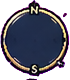
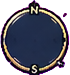
Bản đồ thế giới khung tròn, xoay quanh vị trí mình, có phóng to/thu nhỏ (#9)
- Bỏ khung chữ nhật (bản đồ vuông bị lộ chỗ ghép); dùng khung tròn la bàn N/S như bản đồ nhỏ
- Thế giới vòng lặp nên bản đồ luôn lấy mình làm tâm; mức 1 thấy trọn 500×500 ô
- Cắt lại khung tròn bỏ vệt thừa dưới chữ S

Claude-Session: https://claude.ai/code/session_018b6HgGmd6jx7c3MYzMWrTn

Changed region(s): [[0.0, 0.0267, 1.0, 1.0], [0.4571, 0.0, 0.4857, 0.0267]]

diff --git a/src/ui/panels.js b/src/ui/panels.js
@@ -95,34 +95,33 @@ export function showSettings({ onLogout }) {
   });
 }
 
-// ---------- Bản đồ thế giới ----------
-const MAP_FRAME = { src: 'assets/ui/frames/bang-ban-do.png', w: 310, h: 201 };
+// ---------- Bản đồ thế giới (khung tròn, xoay quanh vị trí mình vì thế giới vòng lặp) ----------
+const MAP_FRAME = { src: 'assets/ui/frames/minimap-tron.png', w: 70, h: 75 };
+const ZOOMS = [250, 125, 60]; // bán kính hiển thị (ô): 250 = thấy trọn thế giới 500×500
 
-export function showWorldMap({ overview, zoneName, getMarkers }) {
+export function showWorldMap({ zoneName, draw }) {
   let raf = 0;
-  const done = openModal('modal-map', MAP_FRAME, ({ at }) => {
-    at(`<div class="map-title">${escapeHtml(zoneName)}</div>`, 70, 34, 170, 12);
-    const cv = at('<canvas class="world-map" width="300" height="300"></canvas>', 82, 48, 145, 145);
-    const ctx = cv.getContext('2d');
-    ctx.imageSmoothingEnabled = false;
+  let zi = 0;
+  const done = openModal('modal-map', MAP_FRAME, ({ box, at }) => {
+    // vòng tròn trong khung vẽ sẵn: tâm (35,40), bán kính ~27
+    const cv = at('<canvas class="world-map" width="420" height="420"></canvas>', 8.4, 13.2, 53.2, 53.2);
+    box.insertAdjacentHTML('afterbegin', `<div class="map-title"><span>${escapeHtml(zoneName)}</span></div>`);
+    const zoom = el(`<div class="map-zoom">
+      <button type="button" class="glow" data-z="1" aria-label="Phóng to">+</button>
+      <button type="button" class="glow" data-z="-1" aria-label="Thu nhỏ">−</button></div>`);
+    box.appendChild(zoom);
+    zoom.addEventListener('click', (e) => {
+      const d = Number(e.target.dataset.z || 0);
+      zi = Math.max(0, Math.min(ZOOMS.length - 1, zi + d));
+    });
     const frame = () => {
-      ctx.drawImage(overview, 0, 0, cv.width, cv.height);
-      for (const m of getMarkers()) {
-        ctx.fillStyle = m.self ? '#ffe36a' : '#ffffff';
-        ctx.strokeStyle = '#000';
-        ctx.lineWidth = 2;
-        ctx.beginPath();
-        ctx.arc(m.u * cv.width, m.v * cv.height, m.self ? 5 : 3.5, 0, Math.PI * 2);
-        ctx.fill(); ctx.stroke();
-      }
+      draw(cv, ZOOMS[zi]);
       raf = requestAnimationFrame(frame);
     };
     frame();
   });
-  const stop = () => cancelAnimationFrame(raf);
-  // dừng vẽ khi bảng đóng
   const obs = new MutationObserver(() => {
-    if (!document.querySelector('.modal-map')) { stop(); obs.disconnect(); }
+    if (!document.querySelector('.modal-map')) { cancelAnimationFrame(raf); obs.disconnect(); }
   });
   obs.observe(document.getElementById('ui'), { childList: true });
   return done;

diff --git a/src/ui/style.css b/src/ui/style.css
@@ -162,11 +162,11 @@ img { image-rendering: pixelated; }
 .icon-btn img, .icon-round img { width: 100%; height: 100%; display: block; object-fit: contain; }
 .tr-mini { display: flex; flex-direction: column; align-items: center; }
 .minimap {
-  position: relative; width: 78px; aspect-ratio: 70 / 80; padding: 0; border: 0; cursor: pointer;
+  position: relative; width: 78px; aspect-ratio: 70 / 75; padding: 0; border: 0; cursor: pointer;
   background: url("../../assets/ui/frames/minimap-tron.png") center / 100% 100% no-repeat; image-rendering: pixelated;
 }
-.minimap canvas { /* nằm trong vòng tròn vẽ sẵn (tâm 35,40 · bán kính 27 trên ảnh 70×80) */
-  position: absolute; left: 12%; top: 16.5%; width: 76%; height: 66.5%; border-radius: 50%;
+.minimap canvas { /* nằm trong vòng tròn vẽ sẵn (tâm 35,40 · bán kính 27 trên ảnh 70×75) */
+  position: absolute; left: 12%; top: 17.6%; width: 76%; height: 70.9%; border-radius: 50%;
 }
 .zone-tag {
   margin-top: -2px; width: 120px; aspect-ratio: 308 / 62; padding: 0 26px 0 14px;
@@ -256,9 +256,22 @@ img { image-rendering: pixelated; }
 .set-toggle.off { background: #2a3350; color: var(--muted); }
 .set-select { background: #2a3350; color: var(--gold); }
 .set-logout { background: linear-gradient(#b8505a, #7e2730); color: #fff; border-radius: 4px; }
-.modal-map { width: min(640px, 92vw, calc(86dvh * 310 / 201)); }
-.map-title { font-size: 4cqw; color: var(--gold); text-align: center; text-shadow: 0 1px 2px #000; }
-.world-map { image-rendering: pixelated; border-radius: 4px; }
+.modal-map { width: min(76vw, calc(80dvh * 70 / 75), 460px); }
+.world-map { image-rendering: pixelated; border-radius: 50%; }
+.map-title {
+  position: absolute; left: 50%; bottom: 100%; transform: translateX(-50%); margin-bottom: 4px;
+  width: min(220px, 70vw); aspect-ratio: 308 / 62; display: flex; align-items: center; justify-content: center;
+  padding: 0 14% 0 10%; background: url("../../assets/ui/frames/bang-ten-khu.png") center / 100% 100% no-repeat;
+  image-rendering: pixelated;
+}
+.map-title span { font-size: 13px; font-weight: 700; color: var(--gold); text-shadow: 0 1px 2px #000; white-space: nowrap; }
+.map-zoom {
+  position: absolute; left: 100%; bottom: 18%; margin-left: 6px; display: flex; flex-direction: column; gap: 6px;
+}
+.map-zoom button {
+  width: 34px; height: 34px; border-radius: 50%; border: 1px solid var(--gold); background: var(--navy);
+  color: var(--gold); font-size: 20px; font-weight: 800; line-height: 1; cursor: pointer;
+}
 
 .toast {
   position: fixed; left: 50%; top: 18%; transform: translateX(-50%);

diff --git a/src/main.js b/src/main.js
@@ -106,9 +106,8 @@ async function boot() {
     onSettings() { showSettings({ onLogout: logout }); },
     onOpenMap() {
       showWorldMap({
-        overview: map.overview,
         zoneName: zoneDef.name,
-        getMarkers: () => markers().map((m) => ({ u: m.x / map.width, v: m.y / map.height, self: m.self })),
+        draw: (canvas, radiusTiles) => map.drawMinimap(canvas, me.x, me.y, radiusTiles, markers()),
       });
     },
     // Nút hành động. Chỉ "Chém thường" mở; còn lại khoá tới khi có hệ thống kỹ năng.

diff --git a/src/map/map.js b/src/map/map.js
@@ -106,7 +106,8 @@ export async function createMap(def, terrainDef, tilesDef) {
       ctx.strokeStyle = '#000';
       ctx.lineWidth = 1.5;
       ctx.beginPath();
-      ctx.arc(size / 2 + dx * k, size / 2 + dy * k, m.self ? 4 : 3, 0, Math.PI * 2);
+      const dot = Math.max(3, size / 32);
+      ctx.arc(size / 2 + dx * k, size / 2 + dy * k, m.self ? dot * 1.3 : dot, 0, Math.PI * 2);
       ctx.fill(); ctx.stroke();
     }
   }
